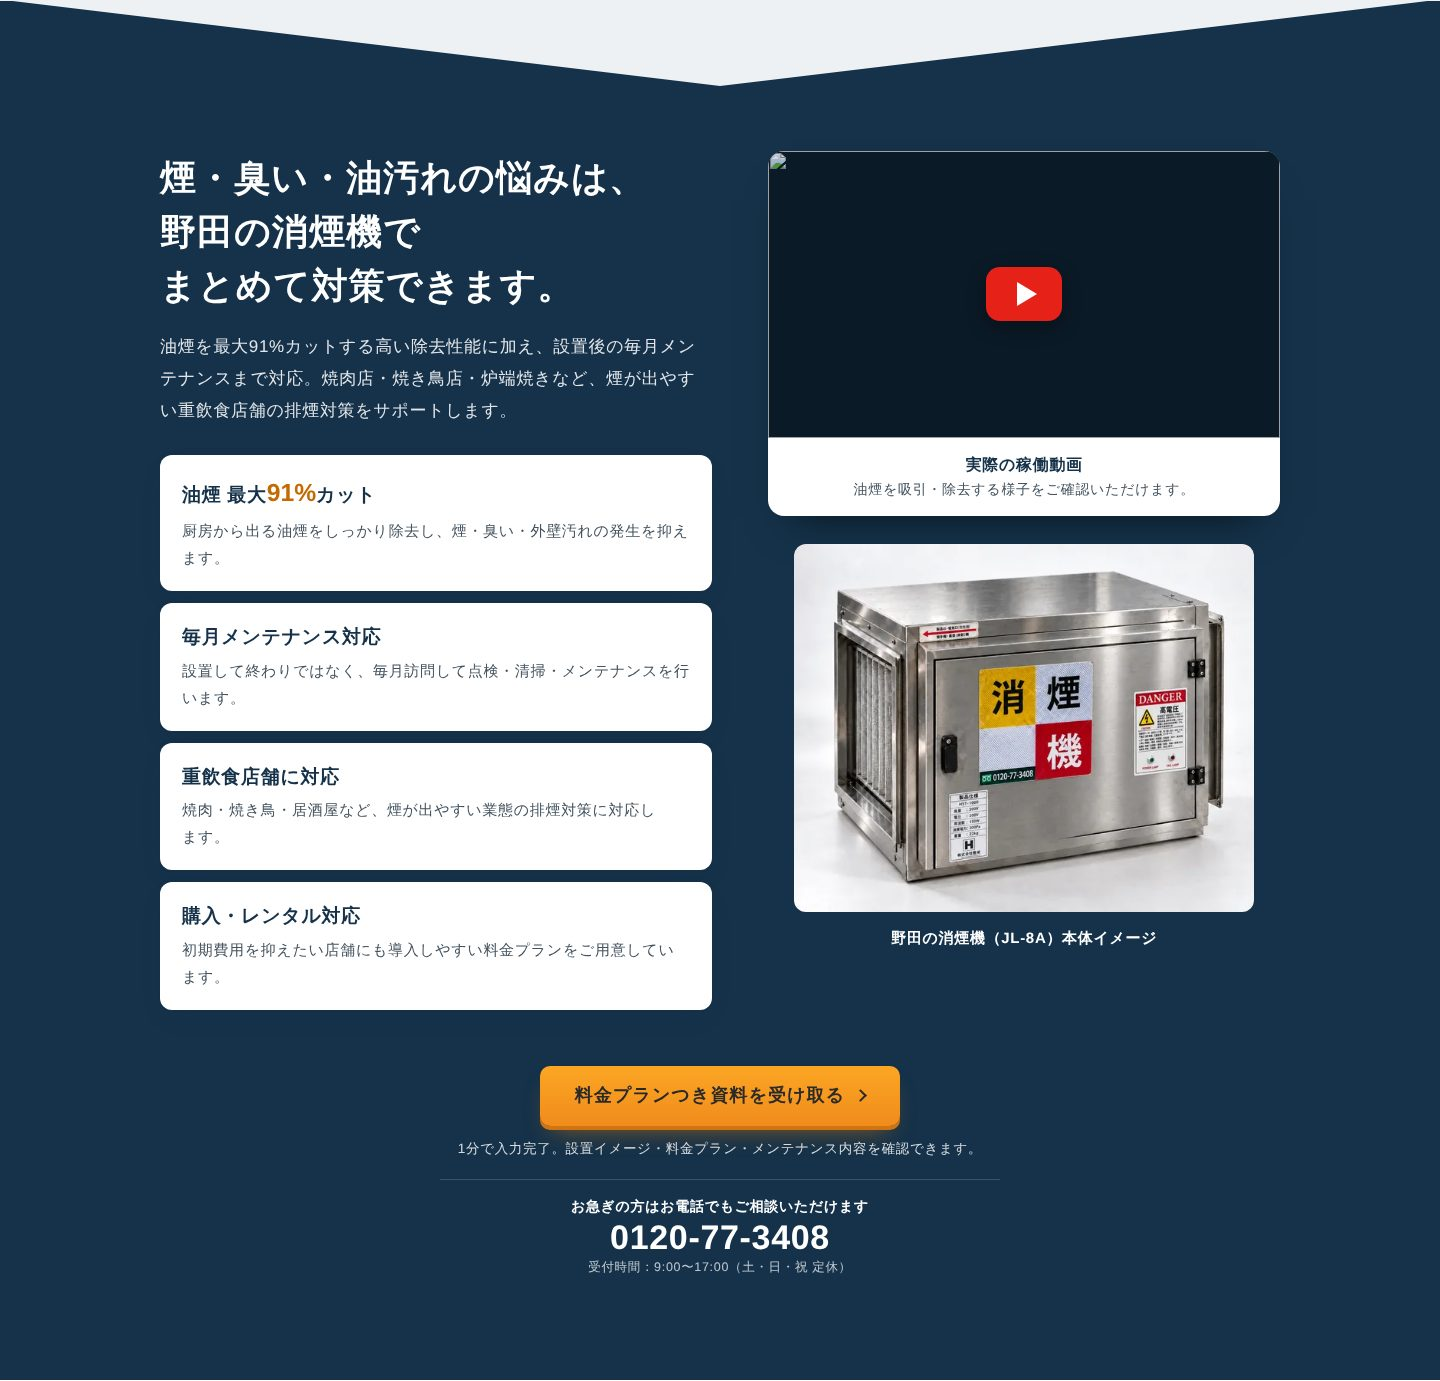
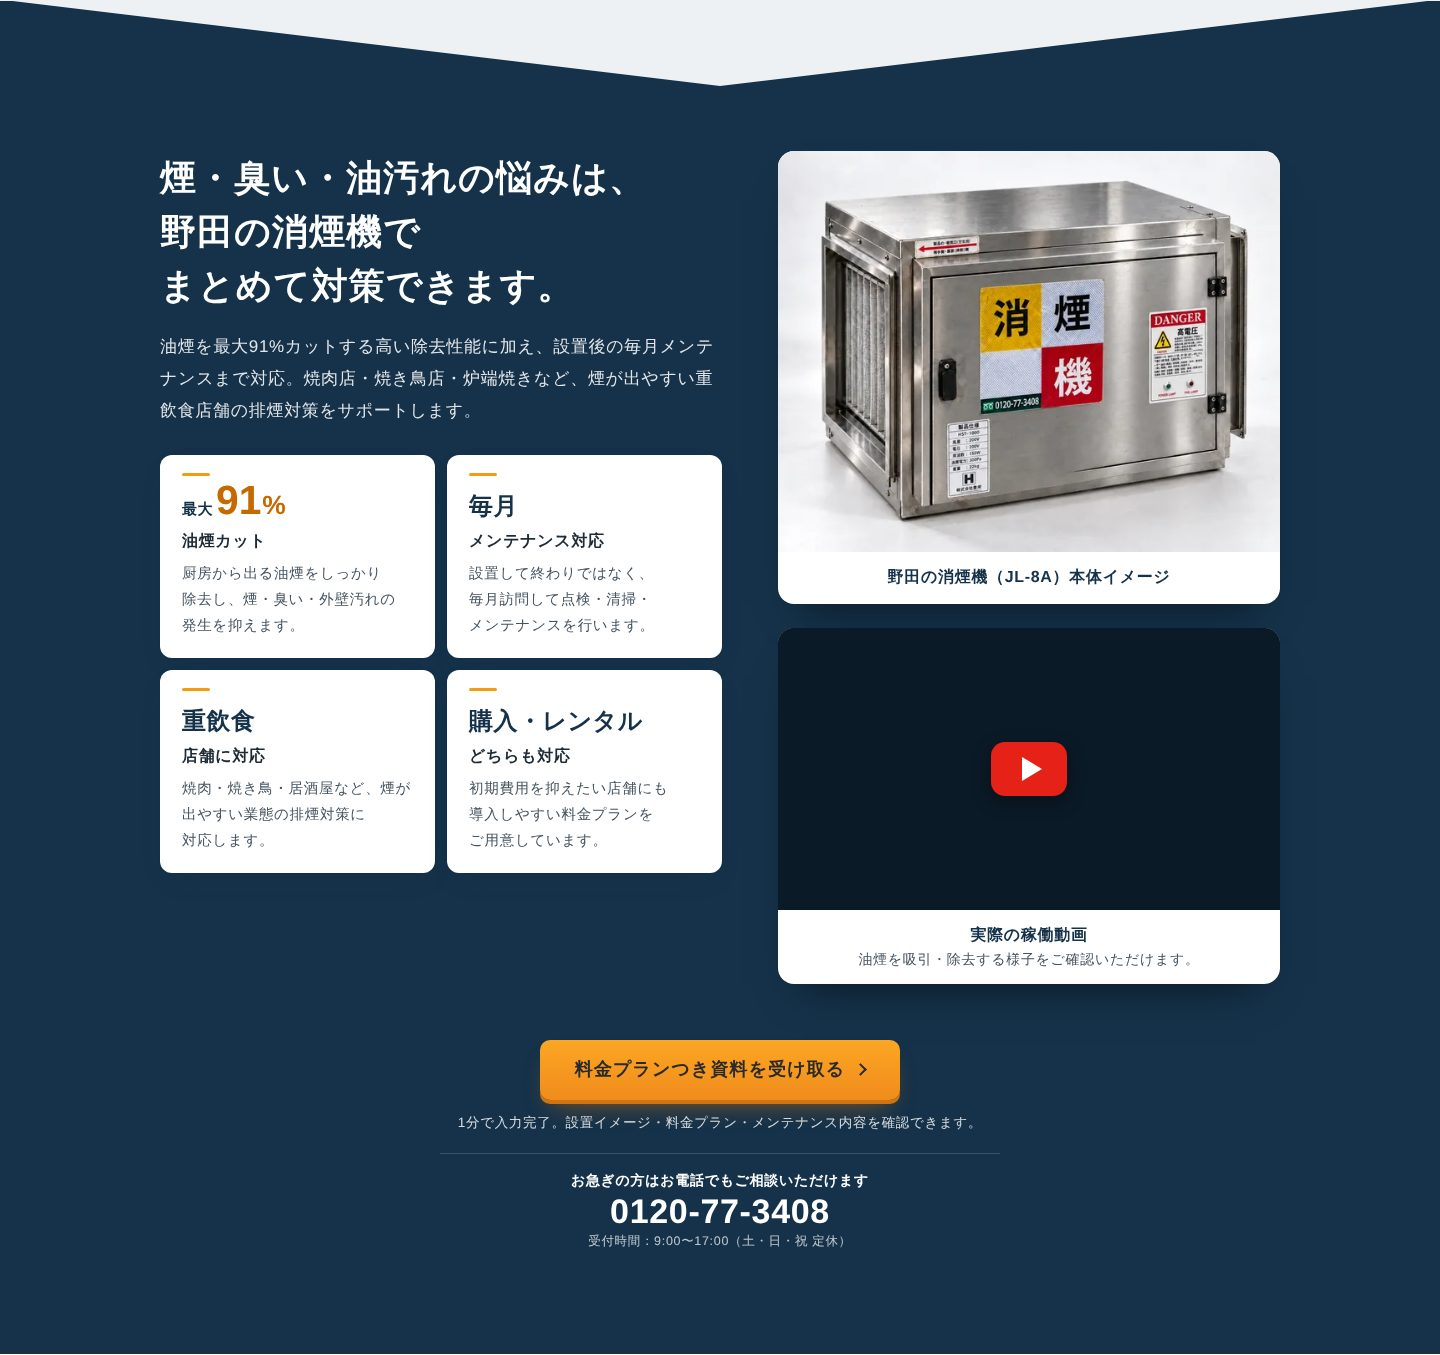
特長セクションの構成と見た目を整える
- 本体写真を動画の上に移し、写真と動画を同じカードの見せ方にそろえる
- スマホでは見出しのすぐ後に写真を出し、特長4点、動画の順にする
- 特長4点はキーワードを大きく見せる2×2のタイルにし、行末の「ます。」だけが残る折り返しをなくす
- 動画の説明文も文節で折り返す

Claude-Session: https://claude.ai/code/session_019JDn7AZMLfVuv5c9s7Xp3K

Changed region(s): [[0.0938, 0.093, 0.9062, 0.8369], [0.4062, 0.8679, 0.5938, 0.9299]]

diff --git a/assets/css/site.css b/assets/css/site.css
@@ -310,17 +310,42 @@ main { padding-top: calc(var(--hd-h) + env(safe-area-inset-top, 0px)); }
 
 /* ---------- solution (navy) ---------- */
 .solution__grid { display: grid; gap: 40px; }
-@media (min-width: 980px) { .solution__grid { grid-template-columns: minmax(0, 1.08fr) minmax(0, 1fr); gap: 56px; align-items: start; } }
+@media (min-width: 980px) { .solution__grid { grid-template-columns: minmax(0, 1.12fr) minmax(0, 1fr); gap: 56px; align-items: start; } }
+.solution__side { display: grid; gap: 24px; }
+/* phones & tablets: title → lead → photo → features → video */
+@media (max-width: 979px) {
+  .solution__grid { display: flex; flex-direction: column; gap: 0; }
+  .solution__main, .solution__side { display: contents; }
+  .solution__ttl { order: 1; }
+  .solution__lead { order: 2; }
+  .product { order: 3; margin-top: 28px; }
+  .feats { order: 4; }
+  .video { order: 5; margin-top: 28px; }
+}
+@media (min-width: 600px) and (max-width: 979px) { .product, .video { width: 100%; max-width: 560px; margin-inline: auto; } }
 .solution__ttl { font-size: clamp(24px, 3vw, 36px); font-weight: 700; line-height: 1.5; letter-spacing: .03em; font-feature-settings: "palt"; }
 .solution__lead { margin-top: 18px; font-size: clamp(15px, 1.5vw, 17px); line-height: 1.9; color: rgba(255, 255, 255, .88); }
 .feats { display: grid; gap: 12px; margin-top: 28px; }
-@media (min-width: 600px) and (max-width: 979px) { .feats { grid-template-columns: repeat(2, minmax(0, 1fr)); } }
-.feat { padding: 20px 22px; color: var(--ink); }
-.feat h3 { font-size: 19px; font-weight: 700; line-height: 1.45; color: var(--navy); }
-.feat h3 em { font-style: normal; font-family: var(--num); font-size: 1.3em; letter-spacing: 0; color: var(--orange-ink); }
-.feat p { margin-top: 6px; font-size: 15px; line-height: 1.8; color: var(--ink-2); }
+@media (min-width: 600px) { .feats { grid-template-columns: repeat(2, minmax(0, 1fr)); } }
+.feat { display: flex; flex-direction: column; gap: 8px; padding: 18px 22px 20px; color: var(--ink); }
+.feat h3 { display: flex; flex-wrap: wrap; align-items: baseline; gap: 2px 10px; line-height: 1.35; }
+.feat__key { font-size: 24px; font-weight: 700; line-height: 44px; color: var(--navy); letter-spacing: .02em; font-feature-settings: "palt"; }
+.feat__key b { margin: 0 1px 0 3px; font-size: 1.7em; font-weight: 700; line-height: 0; color: var(--orange-ink); }
+.feat__pre { font-size: 15px; line-height: 0; }
+.feat__unit { font-size: 1.1em; font-weight: 700; line-height: 0; color: var(--orange-ink); }
+.feat__t { font-size: 16px; font-weight: 700; color: var(--ink); }
+.feat p { font-size: 14.5px; line-height: 1.8; color: var(--ink-2); word-break: auto-phrase; text-wrap: pretty; }
+@media (min-width: 600px) {
+  .feat::before { content: ""; width: 28px; height: 3px; border-radius: 2px; background: var(--orange); }
+  .feat h3 { flex-direction: column; align-items: flex-start; gap: 2px; }
+}
 
-.video { border-radius: 16px; overflow: hidden; background: #fff; color: var(--ink); box-shadow: 0 24px 40px -24px rgba(0, 0, 0, .6); }
+/* photo and video share one card treatment */
+.product, .video { border-radius: 16px; overflow: hidden; background: #fff; color: var(--ink); box-shadow: 0 24px 40px -24px rgba(0, 0, 0, .6); }
+.product img { display: block; width: 100%; height: auto; }
+.product figcaption, .video figcaption { padding: 12px 18px 14px; text-align: center; font-size: 14px; line-height: 1.6; color: var(--ink-2); }
+.product figcaption, .video figcaption b { font-size: 16px; font-weight: 700; color: var(--navy); }
+.video figcaption b { display: block; }
 .video__frame { position: relative; aspect-ratio: 16 / 9; background: #0b1a27; }
 .video__frame iframe { position: absolute; inset: 0; width: 100%; height: 100%; border: 0; }
 .video__play { position: absolute; inset: 0; display: block; width: 100%; padding: 0; border: 0; background: #0b1a27; cursor: pointer; }
@@ -328,11 +353,6 @@ main { padding-top: calc(var(--hd-h) + env(safe-area-inset-top, 0px)); }
 .video__play:hover img { opacity: 1; }
 .video__icon { position: absolute; left: 50%; top: 50%; width: 76px; height: 54px; margin: -27px 0 0 -38px; border-radius: 14px; background: #e62117; box-shadow: 0 6px 18px rgba(0, 0, 0, .35); }
 .video__icon::after { content: ""; position: absolute; left: 31px; top: 15px; border-left: 20px solid #fff; border-top: 12px solid transparent; border-bottom: 12px solid transparent; }
-.video figcaption { padding: 14px 18px 16px; text-align: center; font-size: 14px; line-height: 1.6; color: var(--ink-2); }
-.video figcaption b { display: block; font-size: 16px; color: var(--navy); }
-.product { margin: 28px auto 0; max-width: 460px; text-align: center; }
-.product img { border-radius: 12px; }
-.product figcaption { margin-top: 12px; font-size: 15px; font-weight: 700; }
 
 /* ---------- merits ---------- */
 .merits { display: grid; gap: 20px; }

diff --git a/index.html b/index.html
@@ -292,13 +292,17 @@ j=d.createElement(s),dl=l!='dataLayer'?'&l='+l:'';j.async=true;j.src=
       <h2 class="solution__ttl" id="solution-ttl"><span class="nb">煙・臭い・油汚れの悩みは、</span><br><span class="nb">野田の消煙機で</span><span class="nb">まとめて対策できます。</span></h2>
       <p class="solution__lead">油煙を最大91%カットする高い除去性能に加え、設置後の毎月メンテナンスまで対応。焼肉店・焼き鳥店・炉端焼きなど、煙が出やすい重飲食店舗の排煙対策をサポートします。</p>
       <ul class="feats">
-        <li class="card feat"><h3>油煙 最大<em>91%</em>カット</h3><p>厨房から出る油煙をしっかり除去し、煙・臭い・外壁汚れの発生を抑えます。</p></li>
-        <li class="card feat"><h3>毎月メンテナンス対応</h3><p>設置して終わりではなく、毎月訪問して点検・清掃・メンテナンスを行います。</p></li>
-        <li class="card feat"><h3>重飲食店舗に対応</h3><p>焼肉・焼き鳥・居酒屋など、煙が出やすい業態の排煙対策に対応します。</p></li>
-        <li class="card feat"><h3>購入・レンタル対応</h3><p>初期費用を抑えたい店舗にも導入しやすい料金プランをご用意しています。</p></li>
+        <li class="card feat"><h3><span class="feat__key"><span class="feat__pre">最大</span><b class="num">91</b><span class="feat__unit num">%</span></span><span class="feat__t">油煙カット</span></h3><p>厨房から出る油煙をしっかり除去し、煙・臭い・外壁汚れの発生を抑えます。</p></li>
+        <li class="card feat"><h3><span class="feat__key">毎月</span><span class="feat__t">メンテナンス対応</span></h3><p>設置して終わりではなく、毎月訪問して点検・清掃・メンテナンスを行います。</p></li>
+        <li class="card feat"><h3><span class="feat__key">重飲食</span><span class="feat__t">店舗に対応</span></h3><p>焼肉・焼き鳥・居酒屋など、煙が出やすい業態の排煙対策に対応します。</p></li>
+        <li class="card feat"><h3><span class="feat__key"><span class="nb">購入・</span><span class="nb">レンタル</span></span><span class="feat__t">どちらも対応</span></h3><p>初期費用を抑えたい店舗にも導入しやすい料金プランをご用意しています。</p></li>
       </ul>
     </div>
     <div class="solution__side">
+      <figure class="product">
+        <img src="assets/img/jl8a-1000.webp" srcset="assets/img/jl8a-600.webp 600w, assets/img/jl8a-1000.webp 1000w" sizes="(min-width: 980px) 500px, (min-width: 600px) 560px, 100vw" width="1000" height="800" alt="野田の消煙機 JL-8A の本体。ステンレス製で、正面の扉に「消煙機」の表示がある" loading="lazy">
+        <figcaption>野田の消煙機（JL-8A）本体イメージ</figcaption>
+      </figure>
       <figure class="video">
         <div class="video__frame" data-video="lS9ckeMccJQ">
           <button class="video__play" type="button" aria-label="稼働動画を再生する（YouTube）">
@@ -306,11 +310,7 @@ j=d.createElement(s),dl=l!='dataLayer'?'&l='+l:'';j.async=true;j.src=
             <span class="video__icon" aria-hidden="true"></span>
           </button>
         </div>
-        <figcaption><b>実際の稼働動画</b>油煙を吸引・除去する様子をご確認いただけます。</figcaption>
-      </figure>
-      <figure class="product">
-        <img src="assets/img/jl8a-1000.webp" srcset="assets/img/jl8a-600.webp 600w, assets/img/jl8a-1000.webp 1000w" sizes="(min-width: 900px) 460px, 100vw" width="1000" height="800" alt="野田の消煙機 JL-8A の本体。ステンレス製で、正面の扉に「消煙機」の表示がある" loading="lazy">
-        <figcaption>野田の消煙機（JL-8A）本体イメージ</figcaption>
+        <figcaption><b>実際の稼働動画</b><span class="nb">油煙を吸引・除去する様子を</span><span class="nb">ご確認いただけます。</span></figcaption>
       </figure>
     </div>
   </div>

diff --git a/README.md b/README.md
@@ -156,7 +156,7 @@ npx serve .
 | ファーストビュー | キャッチコピー、ロゴ、POINT01〜03、資料請求ボタン、電話番号。右に排気ダクトの写真 |
 | 導入店舗の帯 | 導入店舗の写真と業態が流れる帯 |
 | お悩み | 「飲食店の“煙問題”を放置していませんか？」、番号つきの街並みの挿絵、4つのお悩み。カードにカーソルを合わせると、挿絵の同じ番号が大きくなる |
-| 特長（紺） | 「まとめて対策できます」、特長4点、稼働動画、本体写真 |
+| 特長（紺） | 「まとめて対策できます」、本体写真、特長4点（PCとタブレットは2×2）、稼働動画。スマホでは見出し→写真→特長→動画の順 |
 | **仕組み（追加）** | 電気集塵の3ステップ（整える → 12kVで帯電 → 6kVで集める）。煙の粒が集まる様子をスクロールに合わせて表示し、集塵率が最大91%まで上がる |
 | 3つのメリット | 近隣クレーム・外壁の油汚れ・物件の価値 |
 | 選ばれる理由（紺） | 毎月の定期メンテナンス、20年以上の実績、料金プラン |
